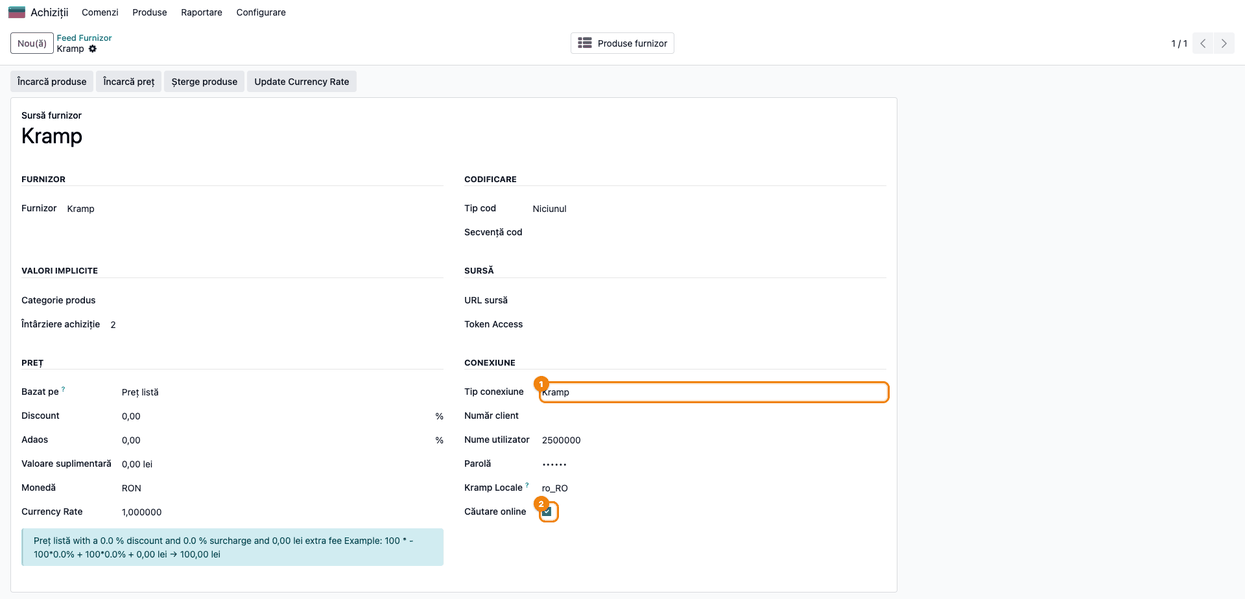
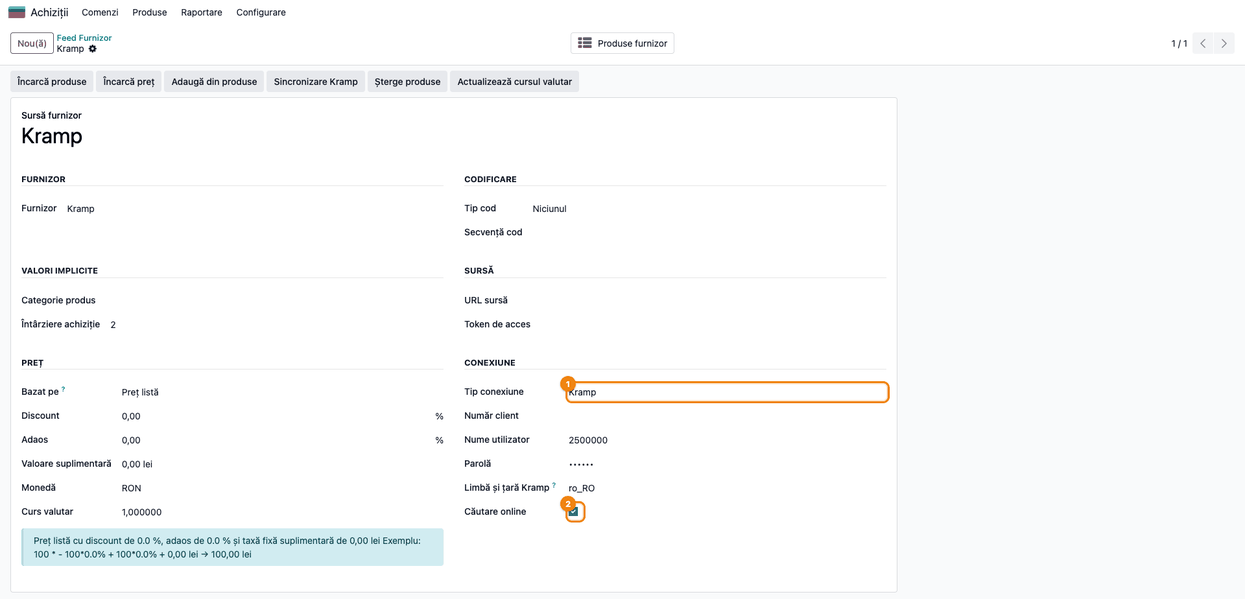
wiki: deltatech_vendor_products_website 19.0.1.4.1, rate limit and refreshed screenshots
Assisted-by: Claude Opus 5.5

diff --git a/deltatech_vendor_products_website/FISA_CONSULTANT.md b/deltatech_vendor_products_website/FISA_CONSULTANT.md
@@ -83,11 +83,12 @@ care catalogul nu îl are încă, de exemplu `6205RS` (rulment).
 ## 5. Configurare inițială
 
 1. Instalați modulul conectorului, de exemplu `deltatech_vendor_products_kramp`. Se instalează
-   automat și `deltatech_vendor_products_website` și **eCommerce** (`website_sale`). Pe server
-   trebuie să existe biblioteca Python `psutil`.
+   automat și `deltatech_vendor_products_website` și **eCommerce** (`website_sale`).
 2. Configurați feed-ul furnizorului după fișa conectorului: **Achiziții → Produse → Feed
    Furnizor → Kramp**, cu furnizorul, moneda, tipul conexiunii și credențialele.
-3. În grupul **Conexiune**, bifați **Căutare online** și salvați.
+3. În grupul **Conexiune**, bifați **Căutare online** și salvați. Într-o bază cu mai multe
+   companii, sunt întrebate doar feed-urile companiei site-ului, iar blocul apare doar dacă acea
+   companie are un feed cu **Căutare online**.
 4. Verificați în grupul **Preț** regulile cu care prețul furnizorului devine preț de vânzare
    (Discount, Adaos, Valoare suplimentară, aplicate pe prețul de listă) și lăsați **Bazat pe** =
    Preț listă.
@@ -96,10 +97,12 @@ care catalogul nu îl are încă, de exemplu `6205RS` (rulment).
    Setări → Afișează prețurile produselor**: **Fără taxe** sau **Taxe incluse**). Cu ele se
    calculează prețul din bloc. Pentru un magazin care vinde către persoane fizice, alegeți de regulă
    **Taxe incluse**, ca prețul afișat să fie prețul final.
-6. Opțional, parametrul de sistem `vendor_product_online_search_cpu` (**Setări → Tehnic →
-   Parametri sistem**, în modul dezvoltator): pragul de încărcare a procesorului serverului peste
-   care căutarea la furnizor se sare. Implicit este 20 (%). Pe un server încărcat, ridicați-l
-   (de exemplu la 80), altfel blocul nu apare (secțiunea 9).
+6. Opțional, limitele de căutare la furnizor, ca parametri de sistem (**Setări → Tehnic →
+   Parametri sistem**, în modul dezvoltator): `vendor_product_online_search_session_limit`
+   (implicit 10 căutări pe minut pentru o sesiune) și `vendor_product_online_search_ip_limit`
+   (implicit 60 de căutări pe minut pentru o adresă IP); valoarea 0 dezactivează limita. O căutare
+   repetată în aceeași sesiune refolosește rezultatul anterior și nu se numără. Peste limită,
+   blocul nu apare (secțiunea 9).
 
 ## 6. Flux de utilizare
 
@@ -250,7 +253,8 @@ instala modulul.
 | Mesaj | Cauză | Remediere |
 |-------|-------|-----------|
 | Blocul nu apare deloc | Niciun feed nu are **Căutare online**, sau căutarea are mai multe pagini de rezultate în magazin | Bifați **Căutare online**; căutați un cod, nu un cuvânt general |
-| Blocul nu apare; în jurnalul serverului „Online search … skipped, CPU load is …" | Procesorul serverului e peste pragul `vendor_product_online_search_cpu` (implicit 20%) | Ridicați parametrul de sistem (de exemplu la 80) |
+| Blocul nu apare; în jurnalul serverului „Online search … skipped, too many searches" | Sesiunea sau adresa IP a depășit limita de căutări la furnizor pe minut (implicit 10 pe sesiune, 60 pe IP) | Normal pentru un robot sau un client care caută foarte des; dacă mulți clienți ies prin aceeași adresă IP (rețea de firmă), ridicați `vendor_product_online_search_ip_limit` |
+| Blocul nu apare într-o bază cu mai multe companii | Feed-ul cu **Căutare online** aparține altei companii decât site-ul | Creați sau mutați feed-ul în compania site-ului |
 | Blocul nu apare, deși Kramp are produsul | Feed-ul nu are credențiale, iar Kramp nu dă prețuri; produsele fără preț nu se afișează | Completați utilizatorul și parola pe feed |
 | Blocul nu apare; în jurnal „Kramp search for … failed" | Kramp nu răspunde sau a refuzat cererea | Reîncercați; verificați credențialele cu **Încarcă preț** pe feed |
 | Mesajul „Căutăm în cataloagele furnizorilor..." dispare fără rezultate | Furnizorul nu are produse pentru termenul căutat | Normal; verificați codul în magazinul furnizorului |
@@ -290,8 +294,8 @@ furnizor, îl pune în coș**, chiar dacă dealerul nu l-a avut niciodată în O
 avantajul e că vinde din tot catalogul Kramp fără să-l importe.
 
 Explicați clar trei limite: blocul apare doar la căutări care încap pe o pagină (coduri, nu cuvinte
-generale); produsele fără preț la furnizor nu se afișează; pe un server foarte încărcat căutarea la
-furnizor se sare (parametrul din secțiunea 5). Atrageți atenția că produsele create din magazin
+generale); produsele fără preț la furnizor nu se afișează; peste limita de căutări pe minut
+(parametrii din secțiunea 5) căutarea la furnizor se sare. Atrageți atenția că produsele create din magazin
 sunt **publicate și comandabile fără stoc**, deci comanda clientului trebuie urmată de comanda de
 achiziție către furnizor: din reaprovizionare sau, cu rutele Cumpără + Reaprovizionare la comandă (MTO)
 configurate (ruta MTO trebuie dezarhivată, cu setarea Trasee în mai mulți pași activă), automat.

diff --git a/deltatech_vendor_products_website/index.md b/deltatech_vendor_products_website/index.md
@@ -1,7 +1,7 @@
 # Vendor Products Website (localizat la `deltatech_vendor_products_website/index.md`)
 
 - **Nume Tehnic:** `deltatech_vendor_products_website`
-- **Versiune:** `19.0.1.3.0`
+- **Versiune:** `19.0.1.4.1`
 - **Cale:** `https://github.com/terrabit-solutions/bitshop_vendor/tree/19.0/deltatech_vendor_products_website`
 - **Cale Locală:** `odoo-addons/bitshop_vendor/deltatech_vendor_products_website`
 - **Ultima Ingestie:** `2026-10-19`
@@ -19,7 +19,9 @@ Modulul leagă catalogul produselor furnizorilor de magazinul online. Un flux de
 - Reguli de afișare: se arată doar produsele furnizorului fără produs Odoo asociat (celelalte sunt găsite de căutarea standard) și doar cele cu preț la furnizor, ca să nu poată fi comandate la 0. Căutările sub 3 caractere nu se trimit, iar o căutare repetată în sesiune refolosește ultimul rezultat. Se afișează cel mult 24 de carduri.
 - Rută `/vendor_product/<id>`: creează produsul de magazin din produsul furnizorului (dacă nu există deja) și redirecționează către pagina lui din `/shop`. Produsele create sunt publicate și permit comanda chiar fără stoc (**Sell when Out-of-Stock**). Redirecționarea nu mai poartă înregistrarea în query string.
 - Securitate: ruta acceptă doar ID-uri returnate clientului în aceeași sesiune (ultimele 200) sau utilizatori interni de vânzări; orice alt ID întoarce 404. Pentru produse deja legate, ruta nu forțează republicarea, deci produsele despublicate rămân despublicate.
-- Rute JSON-RPC: `/vendor_product/online_results` (cardurile pentru blocul din `/shop`), `/vendor_product/online_search` (parametri `source`, `search`; produsele găsite cu preț formatat) și `/vendor_product/online_source` (fluxurile cu căutare online activă). Protecție de încărcare: parametrul de sistem `vendor_product_online_search_cpu` (prag CPU în procente, implicit 20; pe un server ocupat se mărește, altfel blocul nu apare).
+- Rută JSON-RPC `/vendor_product/online_results` (cardurile pentru blocul din `/shop`). Rutele vechi `/vendor_product/online_search` și `/vendor_product/online_source` au fost eliminate în 19.0.1.4.0, fiindcă ocoleau filtrele (un apel scris de mână putea publica un produs la preț 0).
+- Limită de căutări (19.0.1.4.0, în locul gărzii de CPU): cel mult 10 căutări la furnizor pe minut pentru o sesiune (`vendor_product_online_search_session_limit`) și 60 pentru o adresă IP (`vendor_product_online_search_ip_limit`); 0 dezactivează limita. O căutare repetată în sesiune nu se numără. Peste limită blocul nu apare, iar jurnalul arată „Online search … skipped, too many searches".
+- Multi-companie: sunt interogate doar fluxurile companiei website-ului, iar blocul apare doar dacă acea companie are un flux cu căutare online.
 - Configurare recomandată: **Based on** = **List Price** în grupul Price al fluxului, pentru ca actualizarea ulterioară a prețului de listă să nu schimbe prețul față de cel afișat; setarea website-ului **Display Product Prices** (Tax Excluded / Tax Included) influențează prețul din card.
 - Căutările online salvează produsele găsite în *Vendor Product Catalog*; doar rândul deschis de client primește produs Odoo asociat. Comanda către furnizor se face din reaprovizionare sau automat cu rutele *Buy* și *Replenish on Order (MTO)*.
 - Extensibilitate: câmpurile salvate din căutarea online provin din hook-ul `_online_search_fields()`, pe care un conector îl poate completa (conectorul Kramp adaugă codul de bare).
@@ -30,7 +32,7 @@ Modulul leagă catalogul produselor furnizorilor de magazinul online. Un flux de
 - [deltatech_vendor_products](../deltatech_vendor_products/index.md)
 - `website_sale`
 
-Dependență externă Python: `psutil` (măsurarea încărcării CPU).
+Nu are dependențe Python externe (`psutil` a fost eliminat în 19.0.1.4.0).
 
 #### 4. Componente Cheie
 

diff --git a/log.md b/log.md
@@ -4,6 +4,15 @@ This is an append-only log of all operations performed on the wiki.
 
 ---
 
+## [2026-10-19] Actualizare: `deltatech_vendor_products_website` (19.0.1.4.1) — limita de căutări și capturile refăcute
+
+- **Acțiune:** actualizare. Garda de CPU și `psutil` înlocuite cu limita de căutări pe sesiune și pe IP; rutele vechi `online_search` / `online_source` eliminate; filtrul multi-companie al fluxurilor. Fișa consultant recopiată, cu capturile 01, 03 și 04 refăcute (formularul fluxului în română, lista catalogului fără coloana goală „Monedă").
+- **Sursă:** `readme/FISA_CONSULTANT.md`, `CONFIGURE.md`, `HISTORY.md` și codul din PR-urile terrabit-solutions/bitshop_vendor#86 și #87 (unite) plus branch-ul `19.0-doc-vendor-website-screens` (capturile și documentația, PR în curs).
+- **Dependențe/Conexiuni:** [deltatech_vendor_products](deltatech_vendor_products/index.md), [deltatech_vendor_products_kramp](deltatech_vendor_products_kramp/index.md).
+- **Fișiere actualizate:** `deltatech_vendor_products_website/` (`index.md`, `FISA_CONSULTANT.md`, `screenshots/`), `log.md`, `.index/`.
+
+---
+
 ## [2026-10-19] Re-ingestie: `deltatech_vendor_products_website` (19.0.1.3.0) — căutarea online în /shop și fișa consultant
 
 - **Acțiune:** actualizare. Căutarea online e din nou în `/shop`, ca interacțiune Odoo 19: blocul „Disponibile de la furnizorii noștri” sub grilă, condițiile de afișare (o pagină de rezultate, minim 3 caractere, fără produs Odoo, preț la furnizor), prețul din card (reguli feed, monedă, TVA ca în magazin), crearea produsului la click. Fișa consultant copiată cu 5 capturi (căile `../static/description/` rescrise în `screenshots/`).
